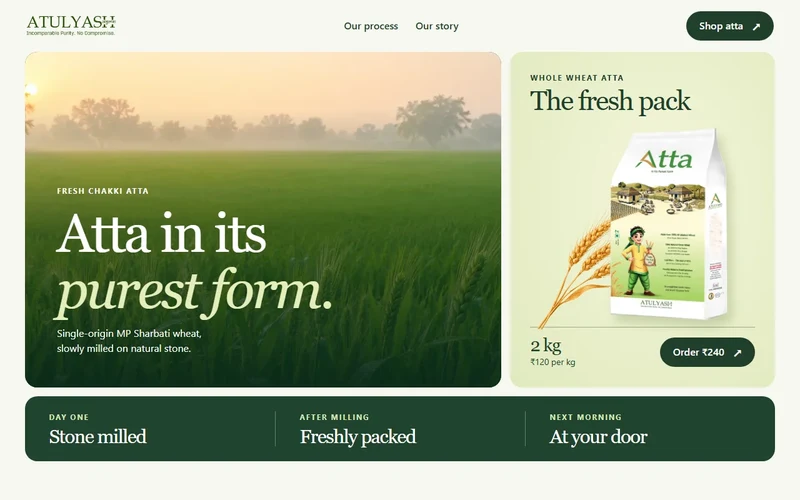
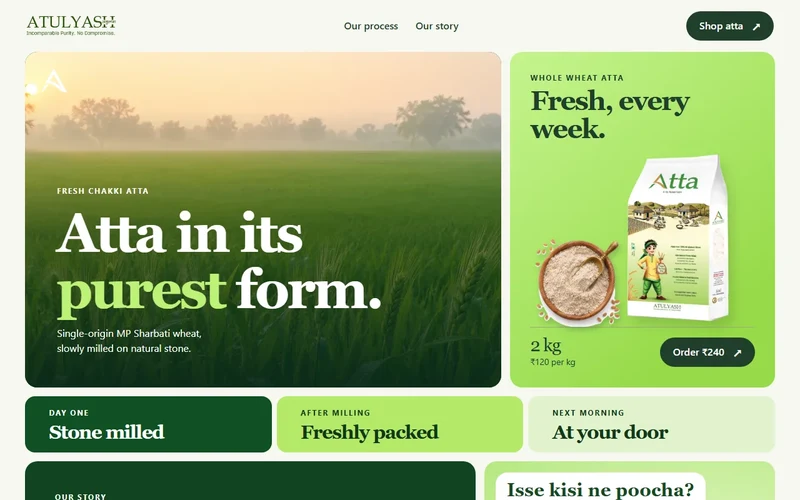
Bring Veer and the fresh lime palette back into Bento Alt

diff --git a/opening/17-fresh-bento-alt/index.html b/opening/17-fresh-bento-alt/index.html
@@ -6,11 +6,14 @@
 </head><body><div class="shell">
 <header><a class="brand" href="#top"><img src="../shared/wordmark.png" alt="Atulyash"></a><nav aria-label="Main navigation"><a href="#making">Our process</a><a href="#story">Our story</a></nav><a class="order" href="#pack">Shop atta <span aria-hidden="true">↗</span></a></header>
 <main id="top"><div class="opening">
-<section class="field"><img src="../11-fresh-bento/img/hero.webp" alt="Morning light over a green wheat field" fetchpriority="high"><div class="field-copy"><p class="label">Fresh chakki atta</p><h1>Atta in its<br><em>purest form.</em></h1><p>Single-origin MP Sharbati wheat,<br>slowly milled on natural stone.</p></div></section>
-<section class="product" id="pack"><div class="product-title"><p class="label">Whole wheat atta</p><h2>The fresh pack</h2></div><div class="still"><img class="grain" src="../reference-media/sprig.webp" alt=""><img class="pouch" src="../shared/pack.webp" alt="Atulyash 2 kg atta pouch"></div><div class="buy"><div><strong>2 kg</strong><span>₹120 per kg</span></div><a class="order" href="https://wa.me/919818588996?text=Hi%2C%20I%20would%20like%20a%202%20kg%20pack%20of%20Atulyash%20atta.">Order ₹240 <span aria-hidden="true">↗</span></a></div></section>
+<section class="field"><img src="../11-fresh-bento/img/hero.webp" alt="Morning light over a green wheat field" fetchpriority="high"><div class="field-copy"><p class="label">Fresh chakki atta</p><h1>Atta in its<br><em>purest</em> form.</h1><p>Single-origin MP Sharbati wheat,<br>slowly milled on natural stone.</p></div></section>
+<section class="product" id="pack"><div class="product-title"><p class="label">Whole wheat atta</p><h2>Fresh, every week.</h2></div><div class="still"><img class="grain" src="../11-fresh-bento/img/bowl.webp" alt=""><img class="pouch" src="../shared/pack.webp" alt="Atulyash 2 kg atta pouch"></div><div class="buy"><div><strong>2 kg</strong><span>₹120 per kg</span></div><a class="order" href="https://wa.me/919818588996?text=Hi%2C%20I%20would%20like%20a%202%20kg%20pack%20of%20Atulyash%20atta.">Order ₹240 <span aria-hidden="true">↗</span></a></div></section>
 </div>
 <section class="timeline" aria-label="Milling and delivery"><div><small>Day one</small><strong>Stone milled</strong></div><div><small>After milling</small><strong>Freshly packed</strong></div><div><small>Next morning</small><strong>At your door</strong></div></section>
-<section id="making"><div class="section-head"><p class="label">Our process</p><h2>Inside the <em>chakki.</em></h2></div><div class="process"><article class="stone"><div><h3>Slow by design.</h3><p>Natural millstones grind the wheat in small batches.</p></div><img src="../11-fresh-bento/img/stone.webp" alt="Illustration of a stone chakki" loading="lazy"></article><article class="origin"><img src="../11-fresh-bento/img/sharbati.webp" alt="Green ears of wheat" loading="lazy"><div><h3>One origin.</h3><p>MP Sharbati wheat, cleaned in several stages.</p></div></article><article class="bran"><img src="../11-fresh-bento/img/milled.webp" alt="Wheat grains in a wooden spoon" loading="lazy"><div><h3>Chokar kept in.</h3><p>The bran stays in the atta. Nothing added.</p></div></article></div></section>
-<section class="story" id="story"><img src="../reference-media/dough.webp" alt="Hands kneading dough on a kitchen counter" loading="lazy"><div><p class="label">Our story</p><h2>We question everything.<br><em>Why not atta?</em></h2><p>We look closely at the cooking oil and utensils we bring home. We think the atta we use every day deserves the same care.</p></div></section>
-<section class="delivery"><div><p class="label">Delhi NCR</p><h2>Fresh, every week.</h2><p>Share your PIN code to check delivery to your home.</p></div><a class="order" href="https://wa.me/919818588996?text=Hi%2C%20can%20you%20check%20delivery%20to%20my%20PIN%20code%3F">Check delivery <span aria-hidden="true">↗</span></a></section>
+<section class="conversation" id="story" aria-labelledby="story-title">
+  <div class="manifesto"><p class="label">Our story</p><h2 id="story-title">We question everything.<br><em>Why not atta?</em></h2><p>We look closely at our cooking oil, our skincare, even our utensils. But the atta we bring home every week? We rarely ask which wheat went in, or when it was milled.</p></div>
+  <div class="veer"><p lang="hi-Latn">Isse kisi ne poocha?<small lang="en">Did anyone ask about this one?</small></p><img src="../11-fresh-bento/img/veer.webp" alt="Veer giving a thumbs up" loading="lazy"></div>
+</section>
+<section id="making"><div class="section-head"><p class="label">Our process</p><h2>Inside the <em>chakki.</em></h2></div><div class="process"><article class="stone"><div><h3>Stone, turned slowly.</h3><p>Natural millstones grind the wheat in small batches.</p></div><img src="../11-fresh-bento/img/stone.webp" alt="Illustration of a stone chakki" loading="lazy"></article><article class="origin"><img src="../11-fresh-bento/img/sharbati.webp" alt="Green ears of wheat" loading="lazy"><div><h3>One origin.</h3><p>MP Sharbati wheat, cleaned in several stages.</p></div></article><article class="bran"><img src="../11-fresh-bento/img/milled.webp" alt="Wheat grains in a wooden spoon" loading="lazy"><div><h3>Chokar kept in.</h3><p>The bran stays in the atta. Nothing added.</p></div></article></div></section>
+<section class="delivery"><img class="rider" src="../11-fresh-bento/img/rider.webp" alt="Atulyash rider carrying a crate of atta" loading="lazy"><div><p class="label">Delhi NCR</p><h2>Our riders bring it home.</h2><p>Share your PIN code to check delivery to your home.</p></div><a class="order" href="https://wa.me/919818588996?text=Hi%2C%20can%20you%20check%20delivery%20to%20my%20PIN%20code%3F">Check delivery <span aria-hidden="true">↗</span></a></section>
 </main></div></body></html>

diff --git a/opening/17-fresh-bento-alt/style.css b/opening/17-fresh-bento-alt/style.css
@@ -23,14 +23,14 @@ nav {display:flex;gap:28px;font-weight:600}
 .label,.timeline small {font-size:.76rem;letter-spacing:.14em;text-transform:uppercase;font-weight:700}
 h1,h2,h3,.buy strong,.timeline strong {font-family:Georgia,serif;font-weight:normal;letter-spacing:-.043em;line-height:1.03}
 h1 {font-size:clamp(3.9rem,6.8vw,6.1rem);margin:14px 0}
-h1 em {color:#e4efbb}
+h1 em {color:#bcf177;font-style:normal}
 h2 {font-size:clamp(2.25rem,4vw,3.65rem)}
 h3 {font-size:clamp(1.8rem,2.8vw,2.5rem)}
-.product {display:flex;flex-direction:column;background:radial-gradient(ellipse at 57% 43%,#f5f6dc,#dfe9bd);padding:clamp(20px,2.5vw,35px)}
+.product {display:flex;flex-direction:column;background:linear-gradient(140deg,#c5f48e,#97da49 80%);padding:clamp(20px,2.5vw,35px)}
 .product-title h2 {font-size:clamp(2rem,3.4vw,3rem);margin-top:6px}
 .still {position:relative;flex:1;min-height:175px}
 .still img {position:absolute;object-fit:contain}
-.grain {width:65%;bottom:5%;left:-2%;transform:rotate(-12deg)}
+.grain {width:38%;bottom:0;left:2%;z-index:1;filter:drop-shadow(3px 5px 4px #26472344)}
 .pouch {height:94%;max-width:70%;bottom:2%;right:8%;filter:drop-shadow(8px 12px 8px #52672839)}
 .buy {border-top:1px solid #9aaa83;padding-top:14px}
 .buy strong,.buy span:not(.order span) {display:block}
@@ -66,3 +66,38 @@ h3 {font-size:clamp(1.8rem,2.8vw,2.5rem)}
  .process article{min-height:220px;padding:16px}.bran img{width:calc(100% + 32px);margin:-16px -16px 15px;height:94px}
  .story img{height:185px}.story>div{padding:14px 22px 25px}.delivery{align-items:flex-start;flex-direction:column}
 }
+
+h1,h2,h3,.timeline strong {font-weight:700}
+.field:before {content:"";position:absolute;inset:24px auto auto 24px;width:44px;height:44px;background:url("../shared/mark-white.png") center/contain no-repeat}
+.timeline {background:transparent;gap:8px;padding:0;border-radius:0;color:#12371a}
+.timeline div {border-radius:16px;padding-block:17px;background:#b4ea67}
+.timeline div:first-child {background:#105023;color:white}
+.timeline div:last-child {background:#e1f3cc}
+.timeline div+div {border:0}
+.timeline small {color:inherit}
+.conversation {display:grid;grid-template-columns:1.55fr 1fr;gap:14px;margin-top:14px}
+.manifesto,.veer {border-radius:20px;overflow:hidden}
+.manifesto {padding:clamp(24px,4vw,48px);background:#104421;color:white;align-content:center}
+.manifesto h2 {margin:13px 0 18px}
+.manifesto em {color:#bcf177}
+.manifesto>p:last-child {max-width:49ch}
+.veer {position:relative;min-height:305px;background:radial-gradient(ellipse at 72% 80%,#f1f9d8,#b5e880)}
+.veer img {position:absolute;bottom:0;right:3%;height:76%;max-width:72%;object-fit:contain;object-position:bottom}
+.veer p {position:relative;z-index:1;margin:18px;width:fit-content;background:white;color:#164921;padding:12px 18px;border-radius:19px 19px 2px 19px;font:700 clamp(19px,2.3vw,30px)/1.1 Georgia,serif}
+.veer p:after {content:"";position:absolute;right:18px;bottom:-12px;border:7px solid transparent;border-top-color:white}
+.veer small {display:block;font:500 .82rem/1.4 "Segoe UI",sans-serif;margin-top:3px}
+.delivery {display:grid;grid-template-columns:minmax(130px,.55fr) 1.4fr auto;background:#e1f3cc;padding:0 25px 0 0}
+.rider {height:210px;width:100%;object-fit:cover;object-position:center 24%}
+@media(max-width:720px){
+ .conversation {grid-template-columns:1fr;gap:8px}
+ .veer {min-height:188px}
+ .veer p {max-width:51%;margin:16px}
+ .veer img {height:97%;max-width:47%}
+ .delivery {grid-template-columns:32% 1fr;gap:10px 15px;padding:0 14px 0 0}
+ .delivery>div {padding-top:19px}
+ .delivery h2 {font-size:1.85rem}
+ .delivery .order {grid-column:2;justify-self:start;margin-bottom:16px}
+ .rider {grid-row:span 2;height:100%}
+ .field:before {width:32px;height:32px}
+}
+@media(max-width:720px){.field:before{display:none}.field h1{font-size:clamp(2.85rem,12.4vw,3.9rem)}.field:after{background:linear-gradient(0deg,#0b281af2,#0d281aa8 55%,transparent 88%)}}

diff --git a/opening/index.html b/opening/index.html
@@ -37,7 +37,7 @@ a.card:hover,a.card:focus-visible{border-color:var(--ink);outline:none}
     <li><a class="card" href="14-golden-kitchen/"><span class="sw" aria-hidden="true"><i style="background:#ffbf0d"></i><i style="background:#163d24"></i><i style="background:#fffaf0"></i><i style="background:#fff3d8"></i></span><span><b>8. Golden Kitchen</b><span>A golden hero, kitchen films and an everyday-meals photo mosaic.</span></span></a></li>
     <li><a class="card" href="15-harvest-grove/"><span class="sw" aria-hidden="true"><i style="background:#365e12"></i><i style="background:#88a720"></i><i style="background:#fbf1db"></i><i style="background:#ffe7ac"></i></span><span><b>9. Harvest Grove</b><span>A green sweep, featured packs and a collage of wheat, milling and rotis.</span></span></a></li>
     <li><a class="card" href="16-pure-and-simple/"><span class="sw" aria-hidden="true"><i style="background:#ffffff"></i><i style="background:#88a720"></i><i style="background:#365e12"></i><i style="background:#eef0d6"></i></span><span><b>10. Pure and Simple</b><span>A clean white opening, roti photography and the three delivery steps.</span></span></a></li>
-    <li><a class="card" href="17-fresh-bento-alt/"><span class="sw" aria-hidden="true"><i style="background:#21432e"></i><i style="background:#dfe9bd"></i><i style="background:#e8e4d6"></i><i style="background:#f7f8f0"></i></span><span><b>11. Fresh Bento Alt</b><span>A field-led opening with a fresh pack and milling timeline.</span></span></a></li>
+    <li><a class="card" href="17-fresh-bento-alt/"><span class="sw" aria-hidden="true"><i style="background:#104421"></i><i style="background:#b4ea67"></i><i style="background:#e8e4d6"></i><i style="background:#f7f8f0"></i></span><span><b>11. Fresh Bento Alt</b><span>Fresh lime, a milling timeline and Veer’s kitchen question.</span></span></a></li>
   </ol>
 </div>
 </body>

diff --git a/index.html b/index.html
@@ -91,7 +91,7 @@ h1{font-size:clamp(36px,7vw,60px);line-height:1.04;margin-top:28px;letter-spacin
       <div class="body"><h2>10. Pure and Simple</h2><p>A clean white opening, roti photography and the three delivery steps.</p>
       <a class="open" href="opening/16-pure-and-simple/">Open Pure and Simple</a></div>
     </li>
-    <li class="card"><div class="shots"><img loading="lazy" src="opening/screenshots/thumb-17-fresh-bento-alt.webp" alt="Fresh Bento Alt on desktop"><img loading="lazy" src="opening/screenshots/thumb-17-fresh-bento-alt-phone.webp" alt="Fresh Bento Alt on a phone"></div><div class="body"><h2>11. Fresh Bento Alt</h2><p>A morning wheat field, a pale green pack card and a milling timeline.</p><a class="open" href="opening/17-fresh-bento-alt/">Open Fresh Bento Alt</a></div></li>
+    <li class="card"><div class="shots"><img loading="lazy" src="opening/screenshots/thumb-17-fresh-bento-alt.webp" alt="Fresh Bento Alt on desktop"><img loading="lazy" src="opening/screenshots/thumb-17-fresh-bento-alt-phone.webp" alt="Fresh Bento Alt on a phone"></div><div class="body"><h2>11. Fresh Bento Alt</h2><p>A wheat field, lime pack card, Veer and the riders who bring the atta home.</p><a class="open" href="opening/17-fresh-bento-alt/">Open Fresh Bento Alt</a></div></li>
   </ul>
 </div>
 </body>
